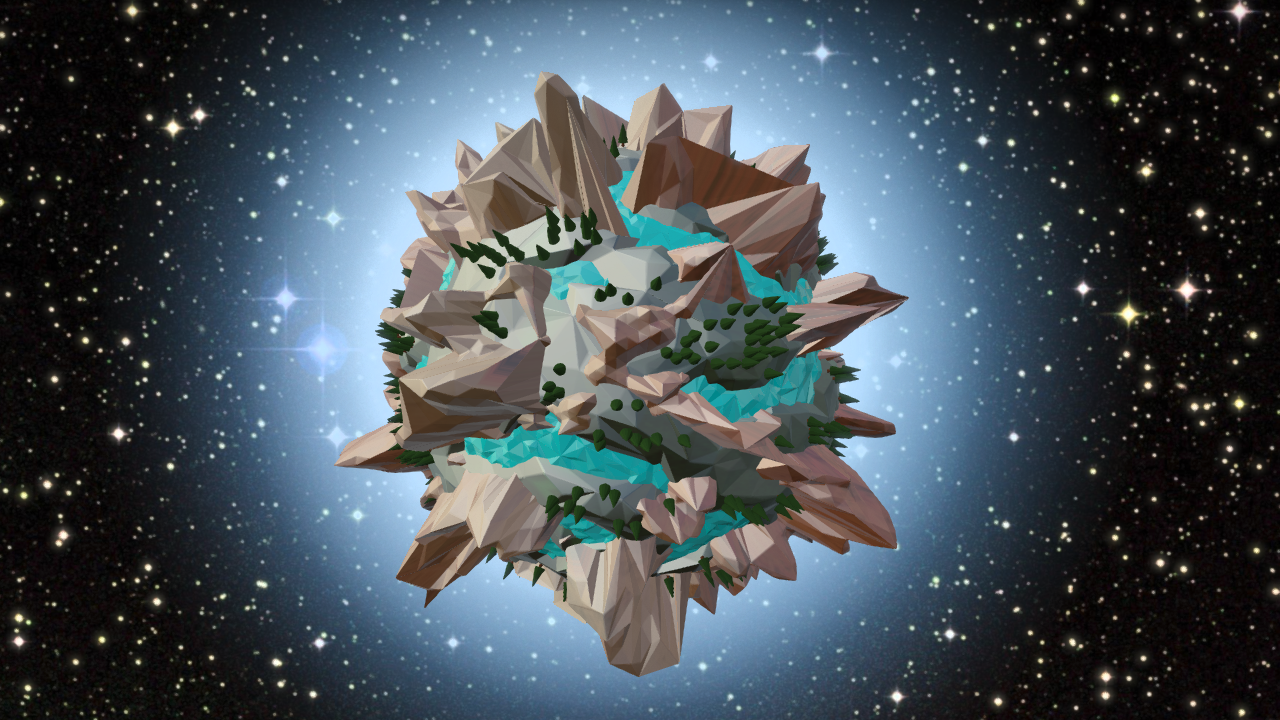
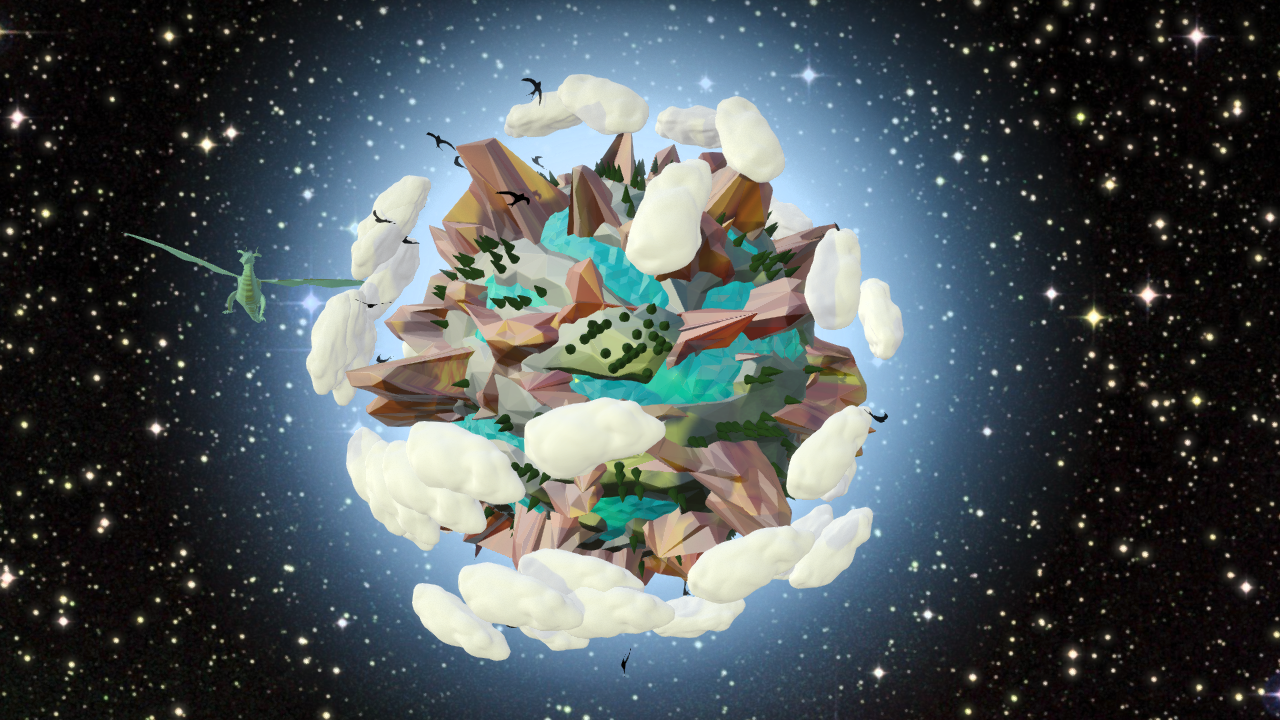
Added to report

diff --git a/doc-files/report.md.html b/doc-files/report.md.html
@@ -11,7 +11,9 @@
 Introduction
 ============================================================================================
 
+Our project was to procedurally generate low-poly planets using triangle meshes and noise functions.  By specifying different noise functions, textures, object placements, destruction and bevlling algorithms, and height ratios, we can generate an infinite number of low-poly planets that look amazing and are stuctually diverse and interesting.
 
+Low-poly planets both allow and beg for one to apply a certain style to them in order to create interesting and beautiful images withour the worry of them appearing to not look "realistic".  They can be throught of three different polygon, sphere heightfields placed ontop of each other with noise applied to it: one for water, one for land, and one for mountains.  You can then color each of these planes, add a texture to it, decimate triangles to make it even less poly, and bevel edges to improve shading to make for a nice looking planet.  From here, you can also place objects around and on the planet to add more diversity. You can then keep mapping different noise functions to create different planets that continue to be interesting and beautiful.
 
 Specification
 ============================================================================================
@@ -25,14 +27,14 @@ Specification
 	3. Use an edge-collapse algorithm to reduce the number of triangles
 	4. Bevel the edges of the heightfields' triangles for smoother transitions
 	5. Get all parameters based on constants from a file.
-	5. Add low-poly objects on the planet:
+	6. Add low-poly objects on the planet:
 		1. Fir Trees
 		2. Birds
         3. Clouds
-	6. Make the planet rotate on its axis
-	7. Make the clouds and birds move along predetermined paths 
-	8. Use a gradient background for better aesthetic.
-    9. Map textures onto the planet.
+	7. Make the planet rotate on its axis
+	8. Make the clouds and birds move along predetermined paths 
+	9. Use a gradient background for better aesthetic.
+    10. Map textures onto the planet.
 
 2. Provide the capability to change the planet's following paramenters:
 	1. Water heightfield's minimum and maximum height
@@ -62,7 +64,7 @@ Topic Overview
 
 Heightfields
 -----------------------------------------------------------
-The planets are represented through a combination of layered, spherical heightfields. From top to bottom, these spheres represent the mountains, land, and water planes of our planet. We generate these spheres using the icosagon tesselation algorithm and apply the algorithm recursively for some number of times to generate more detailed spheres.  We then apply appply noise mapping, decimation, and bevelling algorithms to each sphere to create the base of our planet.
+The planets are represented through a combination of layered, spherical heightfields. From top to bottom, these spheres represent the mountains, land, and water planes of our planet. We generate these spheres using the icosagon tesselation algorithm [#Larsen] and apply the algorithm recursively for some number of times to generate more detailed spheres.  We then apply appply noise mapping, decimation, and bevelling algorithms to each sphere to create the base of our planet.
 
 ![Example of a sphere after 5 recursions](5-sphere.png width=400px) ![Wireframe of a sphere 5 recursions](5-sphere-wire.png width=400px)
 
@@ -70,7 +72,7 @@ The planets are represented through a combination of layered, spherical heightfi
 
 Noise
 -----------------------------------------------------------
-We use Perling noise to generate a series of 2-dimensional images that are used to generate the heights of our three heightfields and place object on and around our planet. Each field has it's own noise image that is used to gererate it's heights by mapping the image to the sphere and raising the vertex based on the pixel value of the image it cooresponds to. The water and land heightfields are based on one noise function applied to their respective images, but the mountain plane is a composite image based on three seperate noise functions being applied to the same image, which results in more interesting and complex mountain ranges for our planets.
+We use Perlin noise [#Perlin] to generate a series of 2-dimensional images that are used to generate the heights of our three heightfields and place object on and around our planet. Each field has it's own noise image that is used to gererate it's heights by mapping the image to the sphere and raising the vertex based on the pixel value of the image it cooresponds to. The water and land heightfields are based on one noise function applied to their respective images, but the mountain plane is a composite image based on three seperate noise functions being applied to the same image, which results in more interesting and complex mountain ranges for our planets.
 
 ![Example of noise used for planet water](noiseExampleOcean.png width=200px) ![Example of noise used for planet land](noiseExampleLand.png width=200px) ![Example of noise used for planet mountains](noiseExampleMount.png width=200px)
 
@@ -87,7 +89,7 @@ The decimation algorithm we chose is edge collapsing as outlined by [#Stanford_G
 The main purpose of edge collapsing in our project, however, was not to merely simplify the mesh, but to make the low polyness aesthetic of our planets more evident by making the polygon subdivision less uniform. 
 
 An edge collapsed sphere: 
-![4000 edges collapsed with angle weight, but no random start point](2016-12-02_002_starter_r2639_g3d_r981__4000_-_edges_collapsed.jpg width=300px)![Same sphere as previous picture](2016-12-02_003_starter_r2639_g3d_r981__4000_edges_collapsed.jpg width=300px)![4000 edges collapsed with no angle weight, but with random start point](2016-12-03_000_starter_r2642_g3d_r981__4000_edges_collapsed.jpg width=300px)
+![4000 edges collapsed with angle weight, but no random start point](2016-12-02_002_starter_r2639_g3d_r981__4000_-_edges_collapsed.jpg height=180px width=320px) ![4000 edges collapsed with no angle weight, but with random start point](2016-12-03_000_starter_r2642_g3d_r981__4000_edges_collapsed.jpg height=180px width=320px)
 
 Bevelling
 -----------------------------------------------------------
@@ -95,7 +97,7 @@ In order to create a smooth transition between triangles, we used a bevelling fu
 
 ![A planet with shrunken faces](beveling1.jpg width=300px)![A beveled surface](beveling.jpg width=300px)![Close-up shot](bevelingclose.jpg width=300px)
 
-The result is a more cartoon-like feel for the planet, because it gets rid of extremely sharp edges.
+The result is a more cartoon-like feel for the planet, because it gets rid of extremely sharp edges to allow for better shading.
 
 Design
 =====================================================================================
@@ -217,9 +219,9 @@ Class Descriptions
 Justification
 ------------------------------------------------------------------------------------------------------------------------------
 
-[Planet](class_planet.html) is responsible for building the actual layout of the planet and uses our Mesh class to create its 3D mesh. We build our own sphere from an icohedron so we can make it as low or high poly as we desire.Our planet class is used for creating spherical heightfield using noise, which are then modified and outputted from inside our mesh class. Our planet heightfield is built by applying noise to a sphere. 
+[Planet](class_planet.html) is responsible for building the spheres that make up our different heightfields, map noise onto the sphere, and allows for the mapping of entities onto or over the planet. While each individual planet does not have control of the scene, it helps the SolarSystem class create the any files for the models and entities relative to the planet. This allows us to isolate the information and entities that make up one planet from the others that may be in the SolarSystem scene file.
 
-[NoiseGen](class_noise_gen.html) generates noise bump maps for the mountain, land and ocean planet heightfields through separate methods.
+[NoiseGen](class_noise_gen.html) Applies different Perlin noise functions to 2-dimensional images that are used to apply to heightfields and place objects on and around the planet.  We abstracted this code from our Planet class to keep Planet clean.
 
 [Mesh](class_mesh.html) defines methods to compute adjacency and normal information of the input Mesh, and methods to edit the Mesh. It is used by Planet, which passes in the vertex array and the tri array of faces of the original heightfields into Mesh. Planet then invokes the methods defined in Mesh to collapse mesh edges, to bevel the mesh, and to output it to [G3D::ArticulatedModel](http://g3d.cs.williams.edu/g3d/G3D10/build/manual/class_g3_d_1_1_articulated_model.html) or to OBJ files to be used in our scenes. Collapsing edges simplifies the mesh and makes the faces look less uniform which makes the low polyness more interesting. Bevelling smoothes the edges between faces and gives more of a polygon effect to the mesh. This design choice abstracts mesh editting from mesh creation and allowed us to to work on introducing low polyness separately from generating nice planets.
     
@@ -231,8 +233,7 @@ Correctness Results
 Procedural Sphere generation
 ---------------------------------------------------------------------------------------
 
-
-![Icosahedron 1 recursion level](2016-12-07_051_starter_r2819_g3d_r981__1_recursion_level.jpg width=200px) ![Icosahedron 8 recursion levels](2016-12-07_052_starter_r2819_g3d_r981__8_recursion_levels.jpg width=200px) ![Icosahedron 8 recursion levels wireframe close-up](2016-12-07_053_starter_r2819_g3d_r981__8_recursion_levels_wireframe_close-up.jpg width=200px) 
+![Icosahedron 1 recursion level](2016-12-07_051_starter_r2819_g3d_r981__1_recursion_level.jpg height=144px width=256px) ![Icosahedron 8 recursion levels](2016-12-07_052_starter_r2819_g3d_r981__8_recursion_levels.jpg height=144px width=256px) ![Icosahedron 8 recursion levels wireframe](2016-12-07_053_starter_r2819_g3d_r981__8_recursion_levels_wireframe_close-up.jpg height=144px width=256px) 
 
 Texture Mapping
 ---------------------------------------------------------------------------------------
@@ -327,23 +328,50 @@ Acknowledgements and Bibliography
 
 [#Larsen]: Larsen, Ken.  "Subdivision of Icosahedrons". CoreDumping, 15 April 2012. Web. 13, Nov. 2016. http://blog.coredumping.com/subdivision-of-icosahedrons/
 
+
+<b>Noise Information:</b>
+
+[#Perlin]: Perlin, Ken.  "Improving Noise". July 2002. ACM Transactions on Graphics. 17, Nov. 2016. http://mrl.nyu.edu/~perlin/paper445.pdf
+
+
 <b>Edge Collapsing:</b>
 
 [#Shertler]: [Shertler, Nico](http://stackoverflow.com/users/1210053/nico-schertler) Answer to forum "Mesh Simplification: Edge Collapse Conditions" created by [jaykumarark](http://stackoverflow.com/users/500318/jaykumarark). Stack Overflow, 20 November 2014. Web 27, Nov. 2016. http://stackoverflow.com/questions/27049163/mesh-simplification-edge-collapse-conditions
 
 [#Stanford_Graphics]: "Simplification". Stanford Graphics - CS486, Fall 2010. Web. 14, Nov. 2016. http://graphics.stanford.edu/courses/cs468-10-fall/LectureSlides/08_Simplification.pdf
 
-<b>Textures<b>:
+
+<b>Textures:</b>
+    
     - https://secure.static.tumblr.com/b8a76b636ec84b7a2dacc8cae300b183/j7ljv7f/Udsmyk31s/tumblr_static_rainbowchecker.png
+
     - http://cdn.designinstruct.com/files/234-colored_vintage_paper_textures/colored_vintage_paper_texture_01_aqua.jpg
+
     - http://www.nextlnk8.com/?tp=iw&cid=5697&v=27&gnum=6&clickid=00136393p043071489064&cachecode=QcpSxqmifoqo6paTGwt7Xw&preload=pre1&ctag=298611
+
     - http://telias.free.fr/textures_tex/fire/fire_le.jpg
+    
     - https://t0.rbxcdn.com/88a3dfcf5bf667ca89721a7f85c1e9ee
+    
     - http://wallpoper.com/images/00/30/58/74/desert-textures_00305874.jpg
+    
     - https://s-media-cache-ak0.pinimg.com/564x/c5/a9/a7/c5a9a7294bf985fc9622e3bd264ad3e6.jpg
+    
     - http://www.texturex.com/albums/Fire-Textures/fire%20texture%20coals%20red%20hot%20orange%20glowing%20dark%20wallpaper.jpg
+    
     - http://www.gbyzea.com/data/out/11/462642-sand-wallpapers.jpg
 
+
+<b>3D Models:</b>
+
+    [#Clouds]: Morgan McGuire. <I>G3D Clouds and Particle Clouds.</I> G3D
+
+    [#Bird]: Brian Butler. <I>Swallow.</I> TurboSquid, 29 Jan. 2012. Web. 7 Dec. 2016. http://www.turbosquid.com/3d-models/swallow-3d-model/651912
+
+    [#Dragon]: RazzMattazz. <I>Dragoncell shaded.max.</I> TurboSquid, 27 May 2007. Web. 8 Dec. 2016. http://www.turbosquid.com/3d-models/3ds-max-cell-shaded-dragon/355183
+
+
+Special thanks to Morgan Mcguire for the backgound image of our planet Scenes.
 
 <!-- Markdeep: -->
 <style class="fallback">body{visibility:hidden;white-space:pre;font-family:monospace;}</style><script src="https://casual-effects.com/markdeep/latest/markdeep.min.js"></script><script>window.alreadyProcessedMarkdeep||(document.body.style.visibility="visible")</script>
